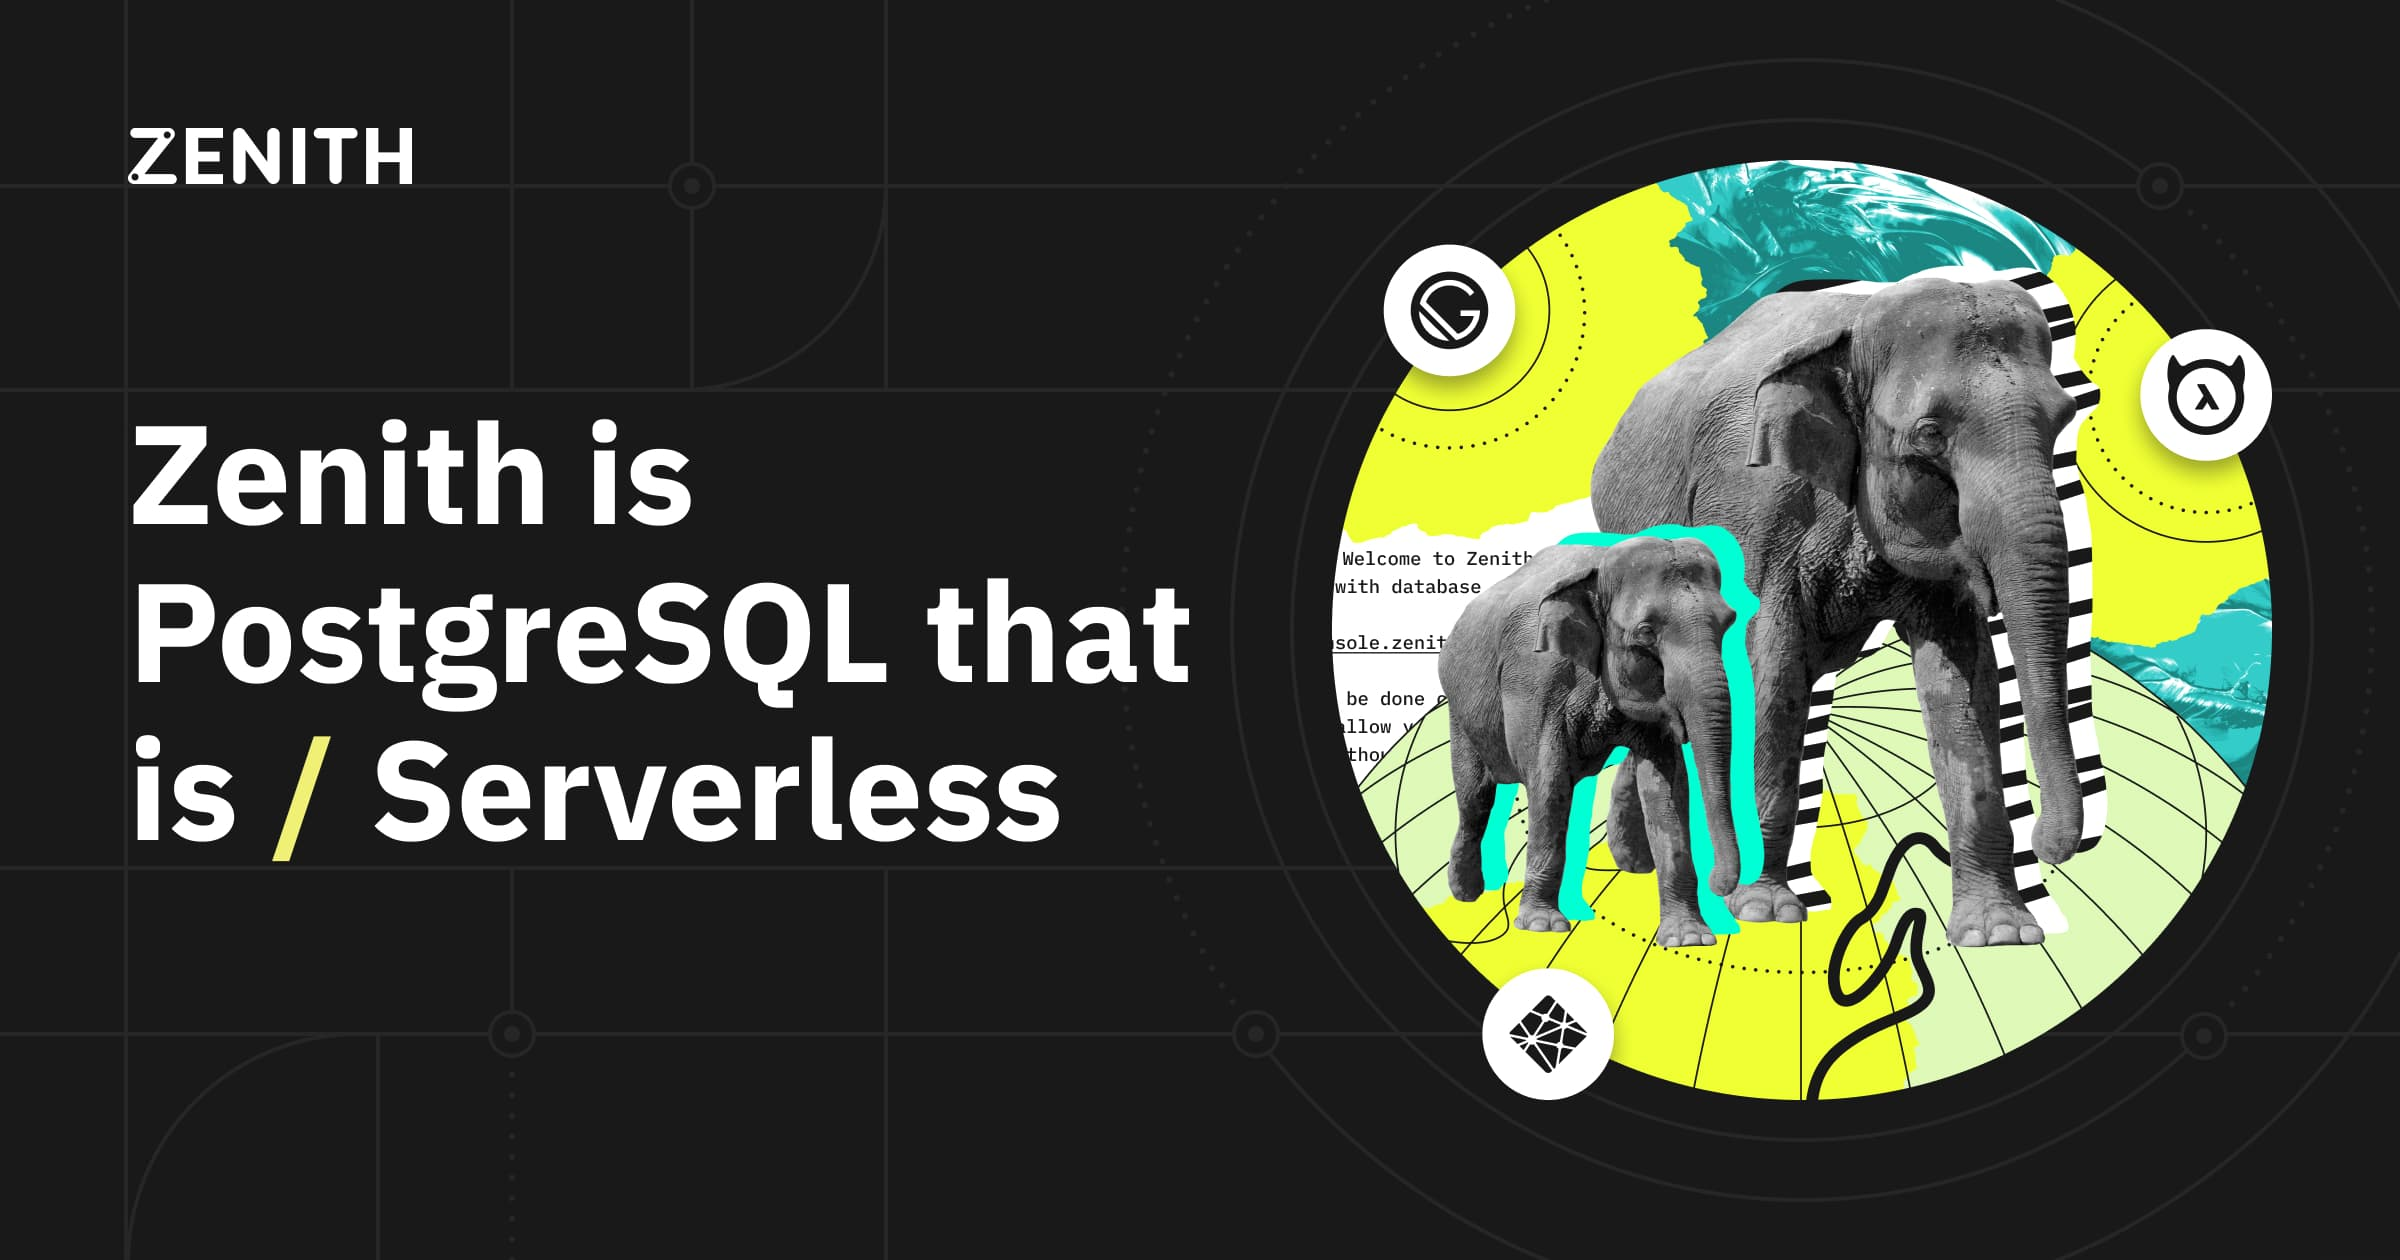
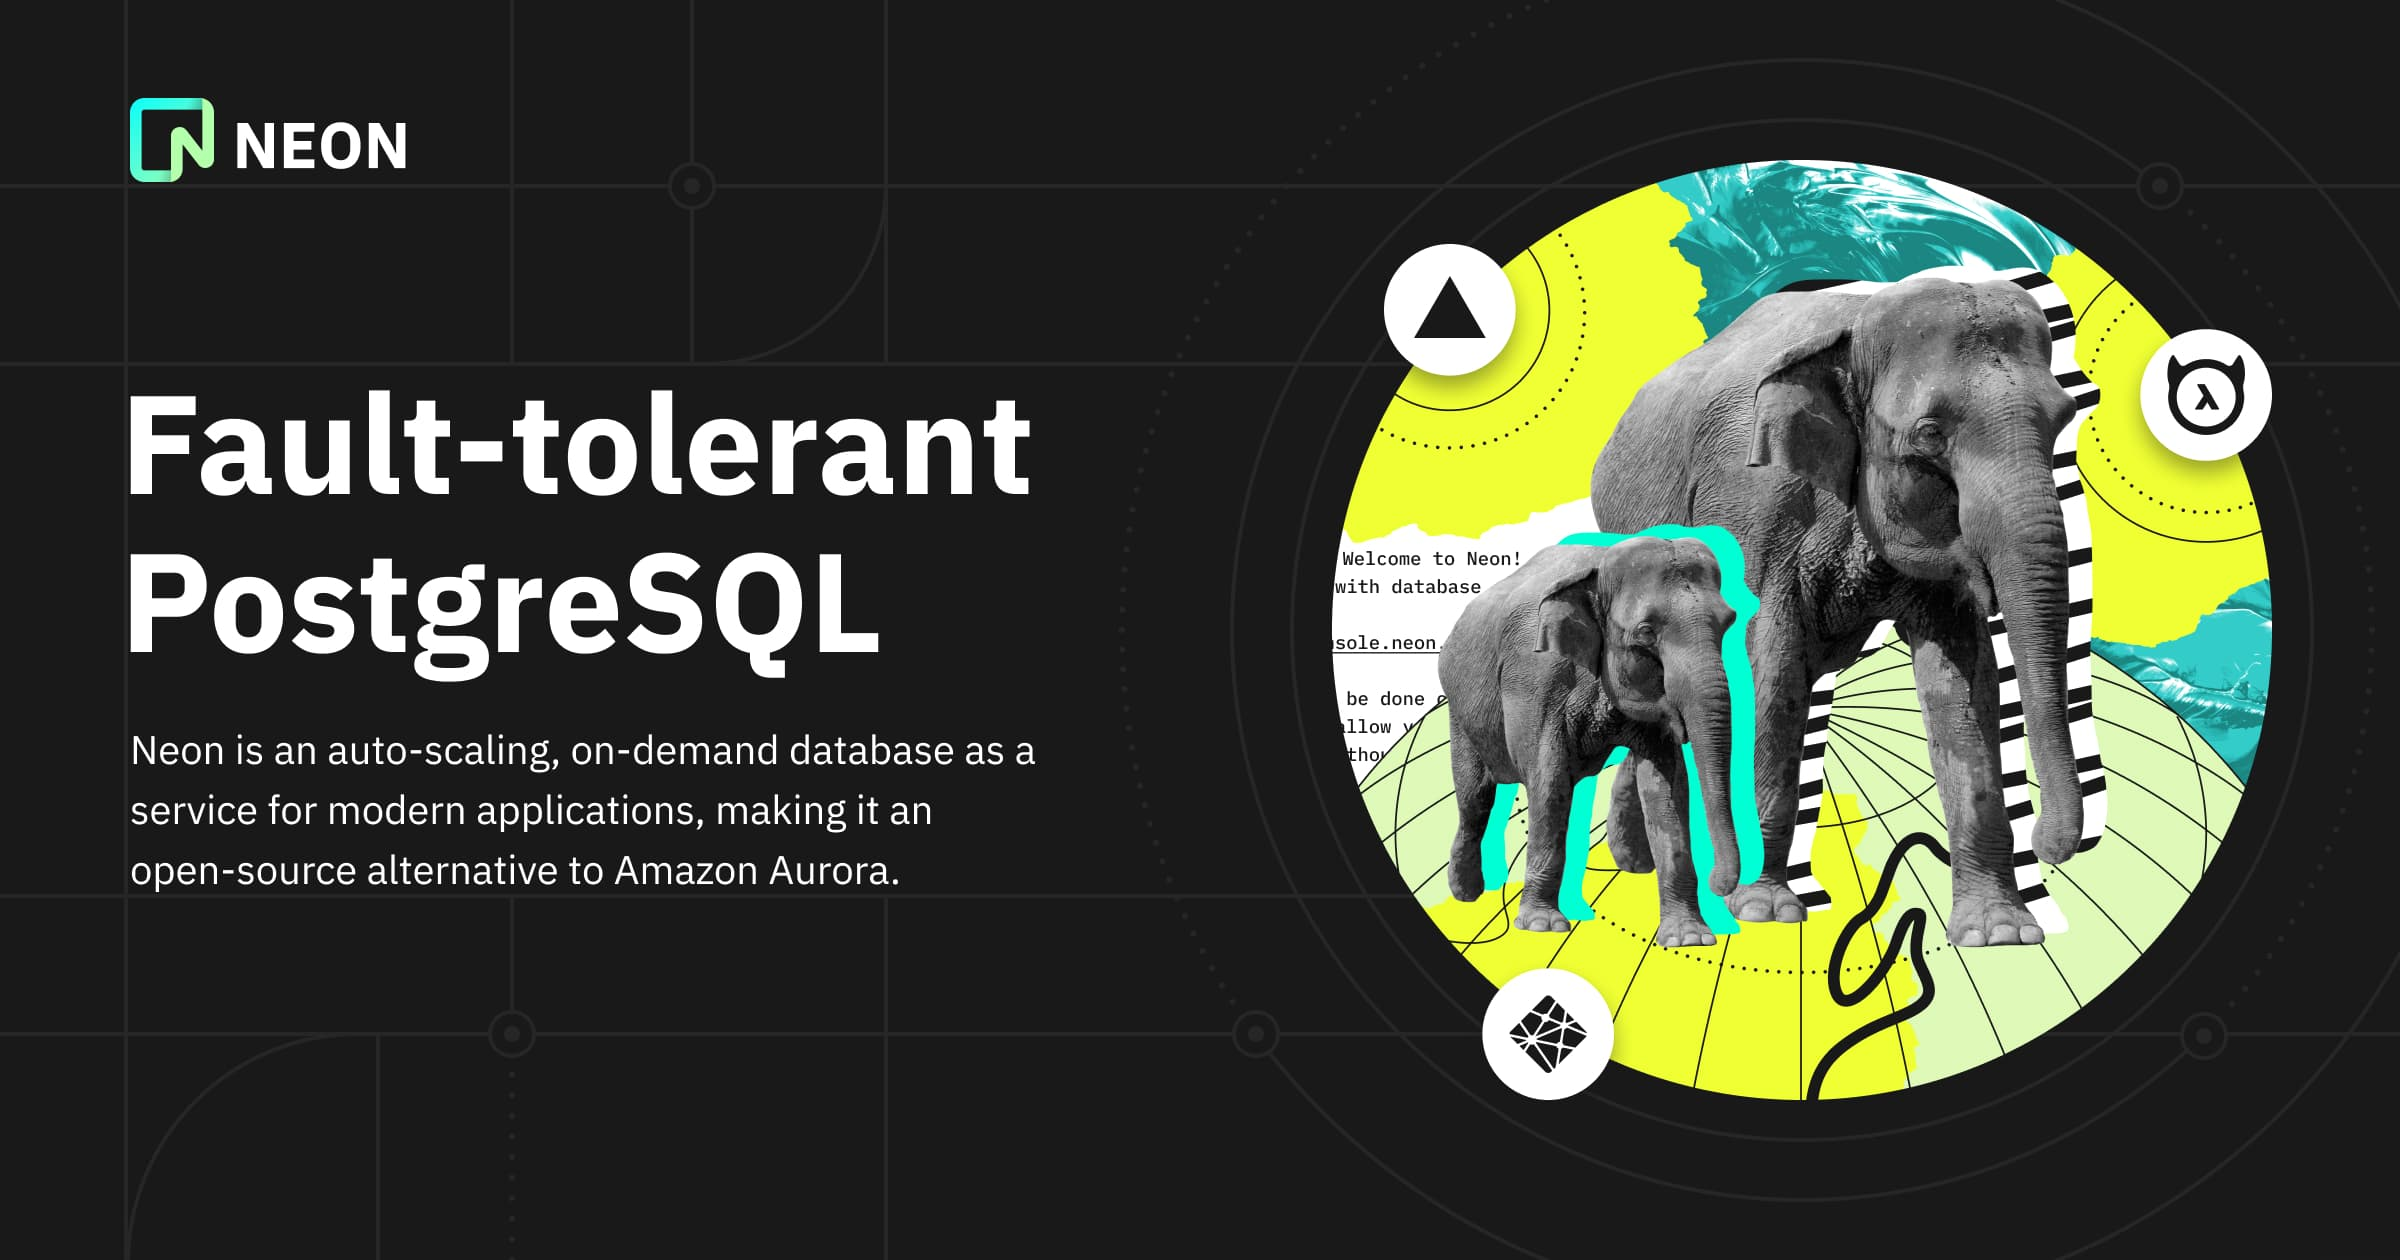
feat: zenith => neon

Changed region(s): [[0.0312, 0.3095, 0.5, 0.7119], [0.0312, 0.0619, 0.1875, 0.1548], [0.5625, 0.2167, 0.625, 0.2786]]

diff --git a/src/components/shared/header/header.jsx b/src/components/shared/header/header.jsx
@@ -6,7 +6,8 @@ import Button from 'components/shared/button';
 import Container from 'components/shared/container';
 import Link from 'components/shared/link';
 import MENUS from 'constants/menus.js';
-import Logo from 'images/logo.inline.svg';
+import LogoBlack from 'images/logo-black.inline.svg';
+import LogoWhite from 'images/logo-white.inline.svg';
 
 import Burger from './burger';
 import DiscordIcon from './images/header-discord.inline.svg';
@@ -27,16 +28,10 @@ const Header = forwardRef(({ theme, isMobileMenuOpen, onBurgerClick }, ref) => (
     ref={ref}
   >
     <Container className="flex items-center justify-between py-8 2xl:py-6 lg:py-5" size="md">
-      <Link
-        className={clsx(
-          'hidden xl:block',
-          theme === 'white' && 'text-black',
-          theme === 'black' && 'text-white'
-        )}
-        to="/"
-      >
-        <span className="sr-only">Zenith</span>
-        <Logo className="h-6 2xl:h-5" aria-hidden />
+      <Link className="hidden xl:block" to="/">
+        <span className="sr-only">Neon</span>
+        {theme === 'black' && <LogoWhite className="h-9 2xl:h-8" aria-hidden />}
+        {theme === 'white' && <LogoBlack className="h-9 2xl:h-8" aria-hidden />}
       </Link>
       <nav className="xl:absolute xl:top-1/2 xl:left-1/2 xl:-translate-x-1/2 xl:-translate-y-1/2">
         <ul className="flex space-x-12 2xl:space-x-10 lg:hidden">
@@ -93,15 +88,12 @@ const Header = forwardRef(({ theme, isMobileMenuOpen, onBurgerClick }, ref) => (
         </ul>
       </nav>
       <Link
-        className={clsx(
-          'absolute top-1/2 left-1/2 block -translate-x-1/2 -translate-y-1/2 xl:hidden',
-          theme === 'white' && 'text-black',
-          theme === 'black' && 'text-white'
-        )}
+        className="absolute top-1/2 left-1/2 block -translate-x-1/2 -translate-y-1/2 xl:hidden"
         to="/"
       >
-        <span className="sr-only">Zenith</span>
-        <Logo className="h-6 2xl:h-5" aria-hidden />
+        <span className="sr-only">Neon</span>
+        {theme === 'black' && <LogoWhite className="h-9 2xl:h-8" aria-hidden />}
+        {theme === 'white' && <LogoBlack className="h-9 2xl:h-8" aria-hidden />}
       </Link>
 
       <div className="flex space-x-5 lg:hidden">

diff --git a/src/components/pages/home/features/features.jsx b/src/components/pages/home/features/features.jsx
@@ -91,7 +91,7 @@ const Features = () => {
       animationRef: highAvailabilityAnimationRef,
       title: 'Reliable',
       description:
-        'Zenith Cloud provides high availability without a maintenance burden and a need for expert advice.',
+        'Neon Cloud provides high availability without a maintenance burden and a need for expert advice.',
     },
     {
       animationVisibilityRef: autoBackupAnimationVisibilityRef,
@@ -114,7 +114,7 @@ const Features = () => {
     //   animationRef: edgeDeploymentAnimationRef,
     //   title: 'Edge Deployment',
     //   description:
-    //     'Have a database close to your users. Zenith is a perfect for serverless functions.',
+    //     'Have a database close to your users. Neon is a perfect for serverless functions.',
     //   tag: {
     //     className: 'text-secondary-2 border-secondary-2',
     //     text: 'Coming Soon',
@@ -157,7 +157,7 @@ const Features = () => {
           />
         </Heading>
         <p className="t-3xl mx-auto mt-5 max-w-[940px] text-center text-white 2xl:mt-4 2xl:max-w-[800px] xl:mt-3.5 xl:max-w-[610px] lg:max-w-[580px]">
-          Zenith supplements Postgres with features essential for modern application development.
+          Neon supplements Postgres with features essential for modern application development.
         </p>
         <ul className="grid-gap-x mt-[92px] grid grid-cols-12 gap-y-[92px] 2xl:mt-[76px] 2xl:gap-y-[76px] xl:mt-16 xl:gap-y-16 md:grid-cols-1">
           {items.map(({ animationVisibilityRef, animationRef, title, description, tag }, index) => (

diff --git a/src/components/shared/footer/footer.jsx b/src/components/shared/footer/footer.jsx
@@ -4,15 +4,15 @@ import Container from 'components/shared/container';
 import Heading from 'components/shared/heading';
 import Link from 'components/shared/link';
 import MENUS from 'constants/menus.js';
-import Logo from 'images/logo.inline.svg';
+import LogoBlack from 'images/logo-black.inline.svg';
 
 const Footer = () => (
   <footer className="safe-paddings overflow-hidden border-t-2 border-black">
     <Container className="flex justify-between xl:flex-col lg:border-none" size="md">
       <div className="flex flex-col items-start justify-between pt-8 pb-14 2xl:pt-[25px] 2xl:pb-11 xl:relative xl:flex-row xl:items-center xl:py-6 xl:before:absolute xl:before:left-[-50vw] xl:before:-top-0.5 xl:before:h-0.5 xl:before:w-[200vw] xl:before:bg-black md:block">
         <Link className="block text-black" to="/">
-          <span className="sr-only">Zenith</span>
-          <Logo className="h-6 2xl:h-5" aria-hidden />
+          <span className="sr-only">Neon</span>
+          <LogoBlack className="h-9 2xl:h-8" aria-hidden />
         </Link>
         <div className="t-base space-y-6 xl:space-y-4 md:mt-8">
           <p>
@@ -21,7 +21,7 @@ const Footer = () => (
               Pixel Point
             </Link>
           </p>
-          <p>Zenith 2021 Ⓒ All rights reserved</p>
+          <p>Neon 2021 Ⓒ All rights reserved</p>
         </div>
       </div>
       <div className="flex xl:order-first xl:grid xl:grid-cols-4 xl:gap-x-6 xl:border-b-2 xl:border-black lg:gap-x-4 md:grid-cols-2 md:gap-y-8 md:pt-8 md:pb-11 xs:block xs:space-y-8">

diff --git a/src/components/pages/home/storage/storage.jsx b/src/components/pages/home/storage/storage.jsx
@@ -25,11 +25,11 @@ const Storage = () => {
             Unlimited Storage
           </Heading>
           <p className="t-xl mt-8 2xl:mt-7 xl:mt-6">
-            Zenith stores data across a fault tolerant scale-out Storage built from ground up.
-            It integrates with S3 to store cold data for cost optimization.
-            This architecture ensures high availability and makes Zenith storage &quot;bottomless&quot;.
-            Zenith handles backups and checkpoints and provides point-in-time recovery out-of-the-box.
-            Zenith Storage is implemented in Rust.
+            Neon stores data across a fault tolerant scale-out Storage built from ground up. It
+            integrates with S3 to store cold data for cost optimization. This architecture ensures
+            high availability and makes Neon storage &quot;bottomless&quot;. Neon handles backups
+            and checkpoints and provides point-in-time recovery out-of-the-box. Neon Storage is
+            implemented in Rust.
           </p>
           {/* <Link className="mt-6 2xl:mt-5 xl:mt-4" to="/" size="md" theme="black-secondary-5">
             How do we cook PostgreSQL storage

diff --git a/src/components/pages/home/data-branching/data-branching.jsx b/src/components/pages/home/data-branching/data-branching.jsx
@@ -13,10 +13,10 @@ const DataBranching = () => (
           Data Branching
         </Heading>
         <p className="t-xl mt-8 3xl:max-w-[504px] 2xl:mt-7 2xl:max-w-[416px] xl:mt-6 lg:max-w-none">
-          Zenith allows to instantly branch your PostgreSQL database to support a modern
-          developement workflow. Create a branch for your dev and test environments for every code
-          deployment in your CI/CD pipeline. Branches are free so that you can branch for every code
-          deployment in your CI/CD pipelines.
+          Neon allows to instantly branch your PostgreSQL database to support a modern developement
+          workflow. Create a branch for your dev and test environments for every code deployment in
+          your CI/CD pipeline. Branches are free so that you can branch for every code deployment in
+          your CI/CD pipelines.
         </p>
         {/* <Link className="mt-6 2xl:mt-5 xl:mt-4" to="/" size="md" theme="black-primary-1">
           Getting started with data branching

diff --git a/src/components/pages/home/scalability/scalability.jsx b/src/components/pages/home/scalability/scalability.jsx
@@ -25,7 +25,7 @@ const Scalability = () => {
             On Demand Scalability
           </Heading>
           <p className="t-xl mt-8 2xl:mt-7 xl:mt-6">
-            Zenith separates storage and compute to deliver on the serverless promise. Compute
+            Neon separates storage and compute to deliver on the serverless promise. Compute
             reconfigures on the fly to match your workload. It activates on an incoming connection
             and shuts down to save resources when there&apos;s no read or write activity.
           </p>
@@ -33,7 +33,7 @@ const Scalability = () => {
             Compute is fully client-compatible with PostgreSQL because it is PostgreSQL.
           </p>
           {/* <Link className="mt-6 2xl:mt-5 xl:mt-4" to="/" size="md" theme="black-secondary-3">
-            Explore Zenith&apos;s architecture
+            Explore Neon&apos;s architecture
           </Link> */}
         </div>
         <div

diff --git a/src/components/pages/team/team/team.jsx b/src/components/pages/team/team/team.jsx
@@ -175,9 +175,9 @@ const Team = () => (
         Meet the team
       </Heading>
       <p className="t-xl mt-8 2xl:mt-7 xl:mt-6">
-        The Zenith team consists of PostgreSQL contributors and technologists on a mission to create
-        a cloud-native database service for every developer. Zenith CEO is Nikita Shamgunov,
-        co-founder of MemSQL / SingleStore.
+        The Neon team consists of PostgreSQL contributors and technologists on a mission to create a
+        cloud-native database service for every developer. Neon CEO is Nikita Shamgunov, co-founder
+        of MemSQL / SingleStore.
       </p>
       <ul className="grid-gap-x mt-16 grid grid-cols-2 gap-y-20 xl:gap-y-10 lg:mt-12 md:mt-8 md:block md:space-y-8">
         {items.map(({ photo, name, position, githubUrl, linkedinUrl, twitterUrl }, index) => (

diff --git a/src/components/shared/subscribe/subscribe.jsx b/src/components/shared/subscribe/subscribe.jsx
@@ -5,6 +5,7 @@ import Container from 'components/shared/container';
 import Heading from 'components/shared/heading';
 import Link from 'components/shared/link';
 import SubscriptionForm from 'components/shared/subscription-form';
+import LINKS from 'constants/links';
 
 import DiscordIcon from './images/subscribe-discord.inline.svg';
 import GithubIcon from './images/subscribe-github.inline.svg';
@@ -13,15 +14,15 @@ import GithubIcon from './images/subscribe-github.inline.svg';
 const links = [
   // {
   //   icon: TwitterIcon,
-  //   to: '/',
+  //   to: LINKS.twitter,
   // },
   {
     icon: DiscordIcon,
-    to: 'https://discord.gg/YKY4CBXZT2',
+    to: LINKS.discord,
   },
   {
     icon: GithubIcon,
-    to: 'https://github.com/zenithdb/zenith',
+    to: LINKS.github,
   },
 ];
 

diff --git a/src/components/pages/jobs/hero/hero.jsx b/src/components/pages/jobs/hero/hero.jsx
@@ -8,7 +8,7 @@ const Hero = () => (
     <Container size="md">
       <h1 className="t-5xl text-center font-bold">Become a part of our team </h1>
       <p className="t-lg mx-auto mt-8 max-w-[860px] text-center !leading-normal 2xl:mt-7 xl:mt-6">
-        Zenith is a distributed team building open-source cloud-native PostgreSQL. We&apos;re a well
+        Neon is a distributed team building open-source cloud-native PostgreSQL. We&apos;re a well
         funded startup with deep knowledge of Postgres internals and decades of experience building
         databases. Our storage layer is written in Rust, cloud control plane is written in Go. We're
         on a mission to create a cloud-native database service for every developer.

diff --git a/src/components/pages/home/saas/saas.jsx b/src/components/pages/home/saas/saas.jsx
@@ -36,8 +36,8 @@ const SaaS = () => {
             id="saas-description"
             className="t-2xl mt-5 max-w-[600px] text-white 2xl:mt-4 2xl:max-w-[488px] xl:max-w-[400px] lg:max-w-none"
           >
-            SaaS vendors using Zenith maximize cost savings and convenience. Zenith minimizes the
-            cost of maintenance for inactive customers. Zenith removes the need to over-provision by
+            SaaS vendors using Neon maximize cost savings and convenience. Neon minimizes the cost
+            of maintenance for inactive customers. Neon removes the need to over-provision by
             fitting the customers into the predefined under-utilized instance sizes.
           </p>
           <Button

diff --git a/src/constants/seo-data.js b/src/constants/seo-data.js
@@ -1,23 +1,23 @@
 export default {
   jobs: {
-    title: 'Jobs — Zenith',
+    title: 'Jobs — Neon',
   },
   team: {
-    title: 'Our Team — Zenith',
+    title: 'Our Team — Neon',
   },
   blog: ({ canonicalUrl }) => ({
-    title: 'Our Blog — Zenith',
+    title: 'Our Blog — Neon',
     canonicalUrl,
   }),
   blogPost: ({ title, description }) => ({
-    title: `${title} — Zenith`,
+    title: `${title} — Neon`,
     description,
   }),
   static: ({ title }) => ({
-    title: `${title} — Zenith`,
+    title: `${title} — Neon`,
   }),
   doc: ({ title, description }) => ({
-    title: `${title} — Zenith Docs`,
+    title: `${title} — Neon Docs`,
     description,
   }),
 };

diff --git a/src/components/pages/home/hero/hero.jsx b/src/components/pages/home/hero/hero.jsx
@@ -83,8 +83,8 @@ const Hero = () => {
             {titleContentLg}
           </Heading>
           <p className="t-xl mt-7 max-w-[680px] text-white 3xl:max-w-[654px] 2xl:mt-6 2xl:max-w-[480px] xl:mt-5 xl:max-w-[456px] lg:mx-auto lg:max-w-[414px]">
-            Zenith is an auto-scaling, on-demand database as a service for modern applications,
-            making it an open-source alternative to Amazon Aurora.
+            Neon is an auto-scaling, on-demand database as a service for modern applications, making
+            it an open-source alternative to Amazon Aurora.
           </p>
           <Button
             id="hero-button"
